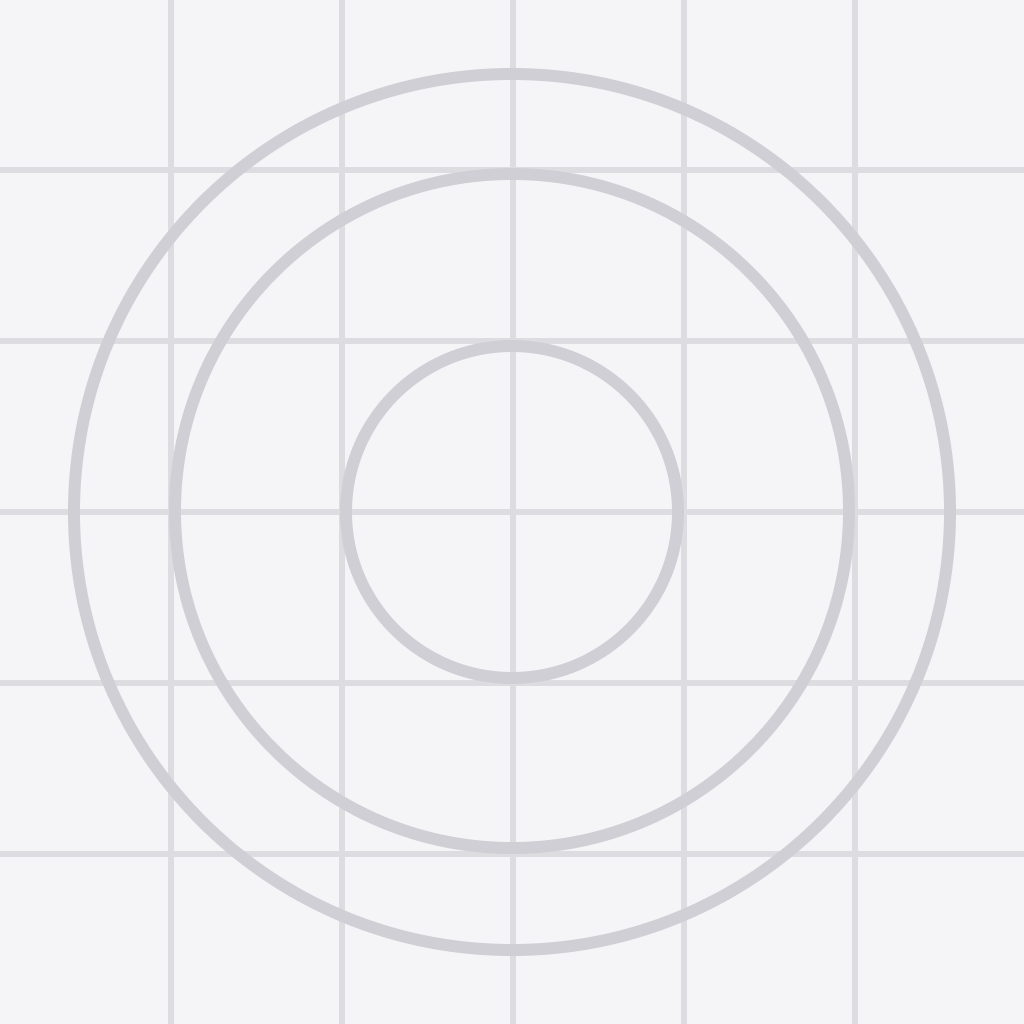
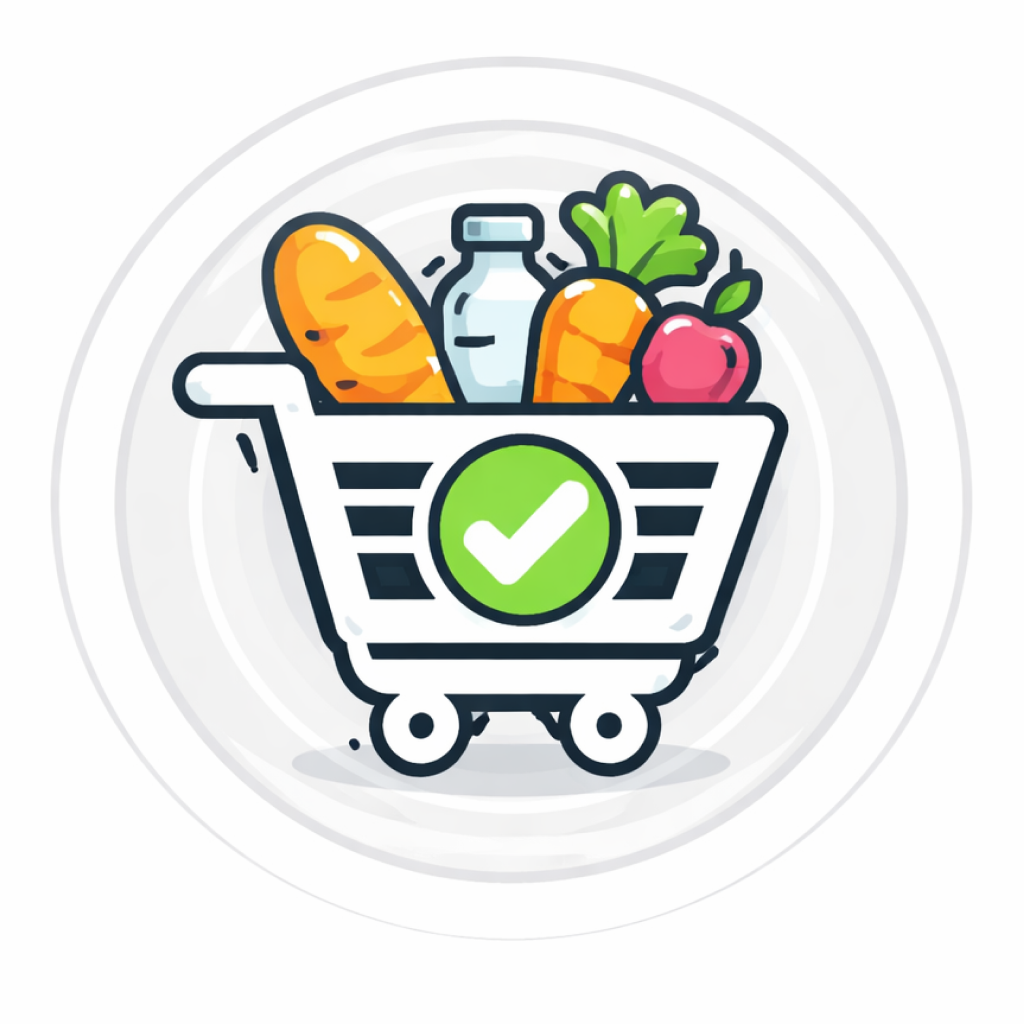
feat: update splash screen

Changed region(s): [[0.0, 0.0, 1.0, 1.0], [0.5, 0.0, 0.5312, 0.0312]]

diff --git a/src/app/index.tsx b/src/app/index.tsx
@@ -1,12 +1,48 @@
+import * as SplashScreen from "expo-splash-screen";
 import { SQLiteProvider } from "expo-sqlite";
+import { useEffect, useState } from "react";
 import { View } from "react-native";
-
 import { Providers } from "@/context";
 import { DATABASE_NAME, migrateDbIfNeeded } from "@/database/migrate";
 import { ShoppingListScreen } from "@/screens/ShoppingListScreen";
 import { s } from "./style";
 
+SplashScreen.setOptions({
+	duration: 1000,
+	fade: true,
+});
+
+SplashScreen.preventAutoHideAsync();
+
 export default function App() {
+	const [isReady, setIsReady] = useState(false);
+
+	useEffect(() => {
+		async function doAsyncStuff() {
+			try {
+				console.log("Doing async stuff...");
+				await new Promise((resolve) => setTimeout(resolve, 1000));
+				console.log("Async stuff done!");
+			} catch (e) {
+				console.warn(e);
+			} finally {
+				setIsReady(true);
+			}
+		}
+
+		doAsyncStuff();
+	}, []);
+
+	useEffect(() => {
+		if (isReady) {
+			SplashScreen.hide();
+		}
+	}, [isReady]);
+
+	if (!isReady) {
+		return null;
+	}
+
 	return (
 		<View style={s.container}>
 			<SQLiteProvider databaseName={DATABASE_NAME} onInit={migrateDbIfNeeded}>